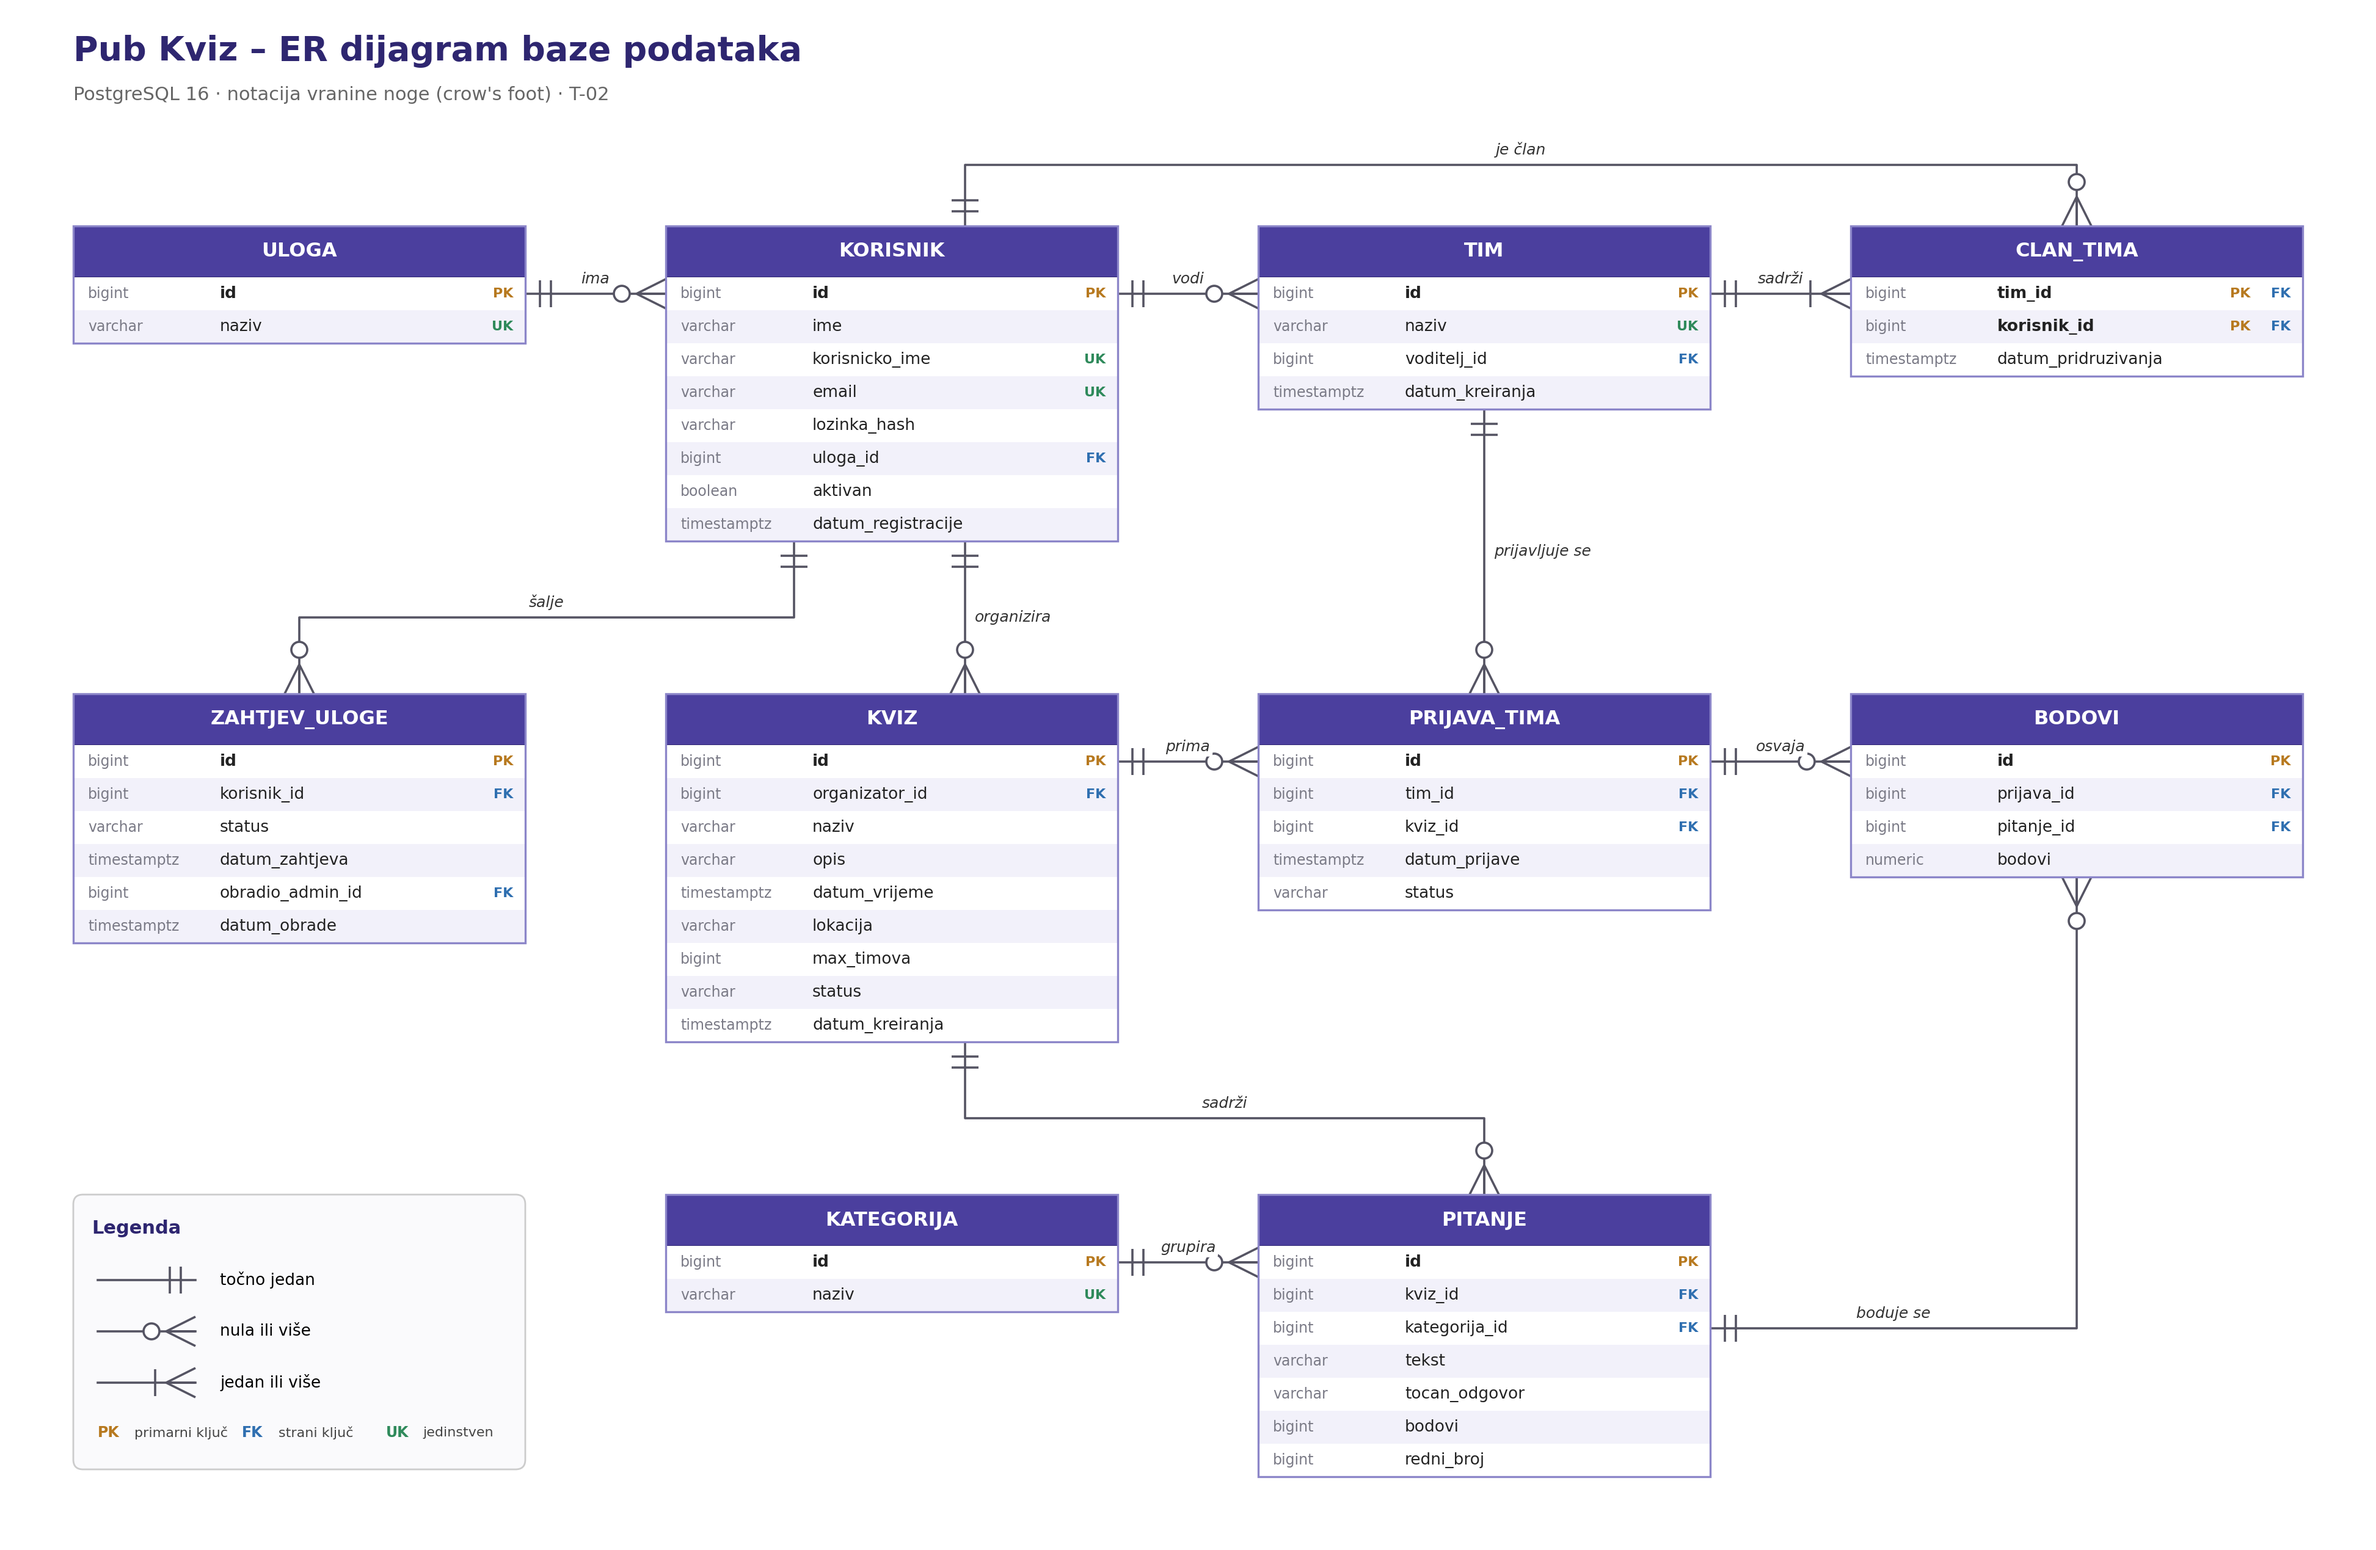
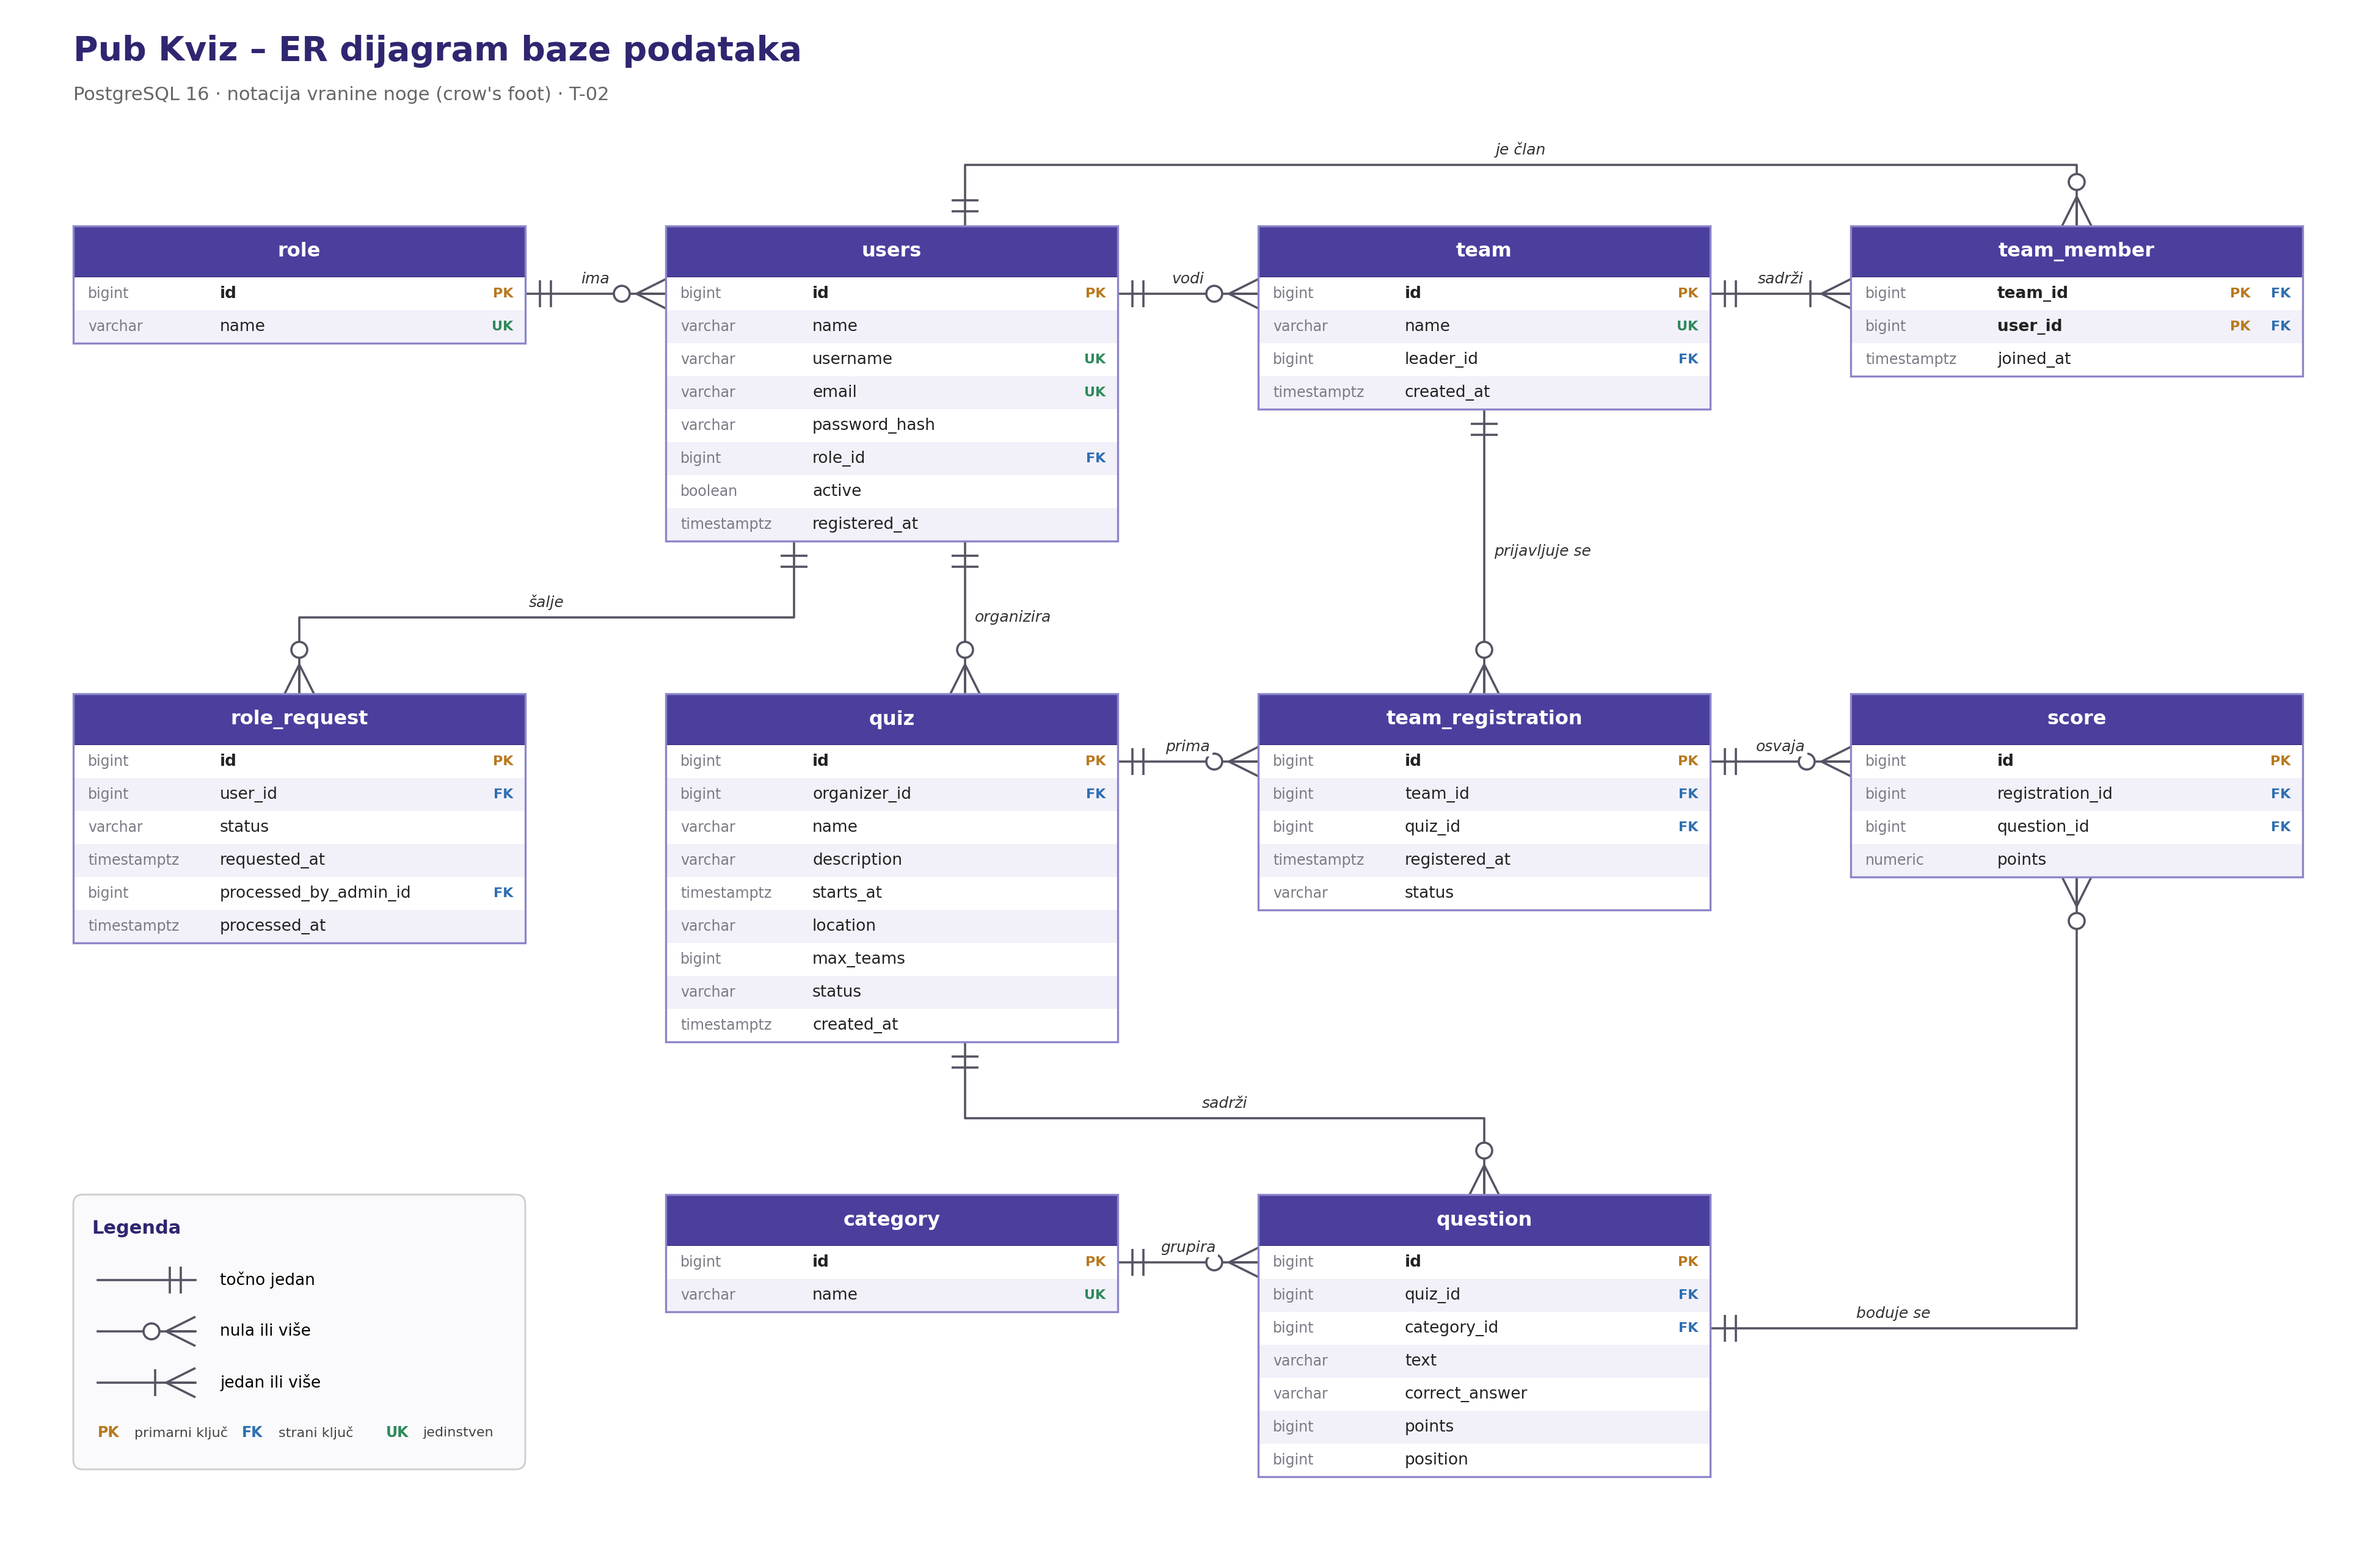
Promijenjen ER dijagram na engleski jezik da bude u skladu s bazom

diff --git a/docs/ER_dijagram.md b/docs/ER_dijagram.md
@@ -1,93 +1,93 @@
 # Pub Kviz – ER dijagram baze podataka (T-02)
 
-Dijagram je u Mermaid formatu – GitHub ga automatski iscrtava kad se ova datoteka otvori u repozitoriju. Tipovi stupaca odgovaraju PostgreSQL-u 16 (baza projekta); `bigint` ključevi se u Flyway migracijama pišu kao `BIGSERIAL`, kao u `V1__create_item.sql`.
+Dijagram je u Mermaid formatu – GitHub ga automatski iscrtava kad se ova datoteka otvori u repozitoriju. Nazivi tablica i stupaca jednaki su onima u migraciji `backend/src/main/resources/db/migration/V2__create_schema.sql`, a tipovi odgovaraju PostgreSQL-u 16 (`bigint` ključevi se u SQL-u pišu kao `BIGSERIAL`).
 
 ![ER dijagram](ER_dijagram.png)
 
 ```mermaid
 erDiagram
-    ULOGA ||--o{ KORISNIK : "ima"
-    KORISNIK ||--o{ ZAHTJEV_ULOGE : "šalje"
-    KORISNIK ||--o{ KVIZ : "organizira"
-    KORISNIK ||--o{ TIM : "vodi"
-    KORISNIK ||--o{ CLAN_TIMA : "je član"
-    TIM ||--|{ CLAN_TIMA : "sadrži"
-    TIM ||--o{ PRIJAVA_TIMA : "prijavljuje se"
-    KVIZ ||--o{ PRIJAVA_TIMA : "prima"
-    KVIZ ||--o{ PITANJE : "sadrži"
-    KATEGORIJA ||--o{ PITANJE : "grupira"
-    PRIJAVA_TIMA ||--o{ BODOVI : "osvaja"
-    PITANJE ||--o{ BODOVI : "boduje se"
+    role ||--o{ users : "ima"
+    users ||--o{ role_request : "šalje"
+    users ||--o{ quiz : "organizira"
+    users ||--o{ team : "vodi"
+    users ||--o{ team_member : "je član"
+    team ||--|{ team_member : "sadrži"
+    team ||--o{ team_registration : "prijavljuje se"
+    quiz ||--o{ team_registration : "prima"
+    quiz ||--o{ question : "sadrži"
+    category ||--o{ question : "grupira"
+    team_registration ||--o{ score : "osvaja"
+    question ||--o{ score : "boduje se"
 
-    ULOGA {
+    role {
         bigint id PK
-        varchar naziv UK "Administrator, Organizator, Sudionik"
+        varchar name UK "Administrator, Organizer, Participant"
     }
-    KORISNIK {
+    users {
         bigint id PK
-        varchar ime
-        varchar korisnicko_ime UK
+        varchar name
+        varchar username UK
         varchar email UK
-        varchar lozinka_hash
-        bigint uloga_id FK
-        boolean aktivan
-        timestamptz datum_registracije
+        varchar password_hash
+        bigint role_id FK
+        boolean active
+        timestamptz registered_at
     }
-    ZAHTJEV_ULOGE {
+    role_request {
         bigint id PK
-        bigint korisnik_id FK
-        varchar status "na_cekanju, odobren, odbijen"
-        timestamptz datum_zahtjeva
-        bigint obradio_admin_id FK "nullable"
-        timestamptz datum_obrade "nullable"
+        bigint user_id FK
+        varchar status "pending, approved, rejected"
+        timestamptz requested_at
+        bigint processed_by_admin_id FK "nullable"
+        timestamptz processed_at "nullable"
     }
-    KVIZ {
+    quiz {
         bigint id PK
-        bigint organizator_id FK
-        varchar naziv
-        varchar opis "nullable"
-        timestamptz datum_vrijeme
-        varchar lokacija
-        bigint max_timova
-        varchar status "otvoren, u_tijeku, zavrsen, otkazan"
-        timestamptz datum_kreiranja
+        bigint organizer_id FK
+        varchar name
+        varchar description "nullable"
+        timestamptz starts_at
+        varchar location
+        bigint max_teams "> 0"
+        varchar status "open, in_progress, finished, cancelled"
+        timestamptz created_at
     }
-    KATEGORIJA {
+    category {
         bigint id PK
-        varchar naziv UK
+        varchar name UK
     }
-    PITANJE {
+    question {
         bigint id PK
-        bigint kviz_id FK
-        bigint kategorija_id FK
-        varchar tekst
-        varchar tocan_odgovor
-        bigint bodovi "zadano 1"
-        bigint redni_broj
+        bigint quiz_id FK
+        bigint category_id FK
+        varchar text
+        varchar correct_answer
+        bigint points "zadano 1"
+        bigint position
     }
-    TIM {
+    team {
         bigint id PK
-        varchar naziv UK
-        bigint voditelj_id FK
-        timestamptz datum_kreiranja
+        varchar name UK
+        bigint leader_id FK
+        timestamptz created_at
     }
-    CLAN_TIMA {
-        bigint tim_id PK,FK
-        bigint korisnik_id PK,FK
-        timestamptz datum_pridruzivanja
+    team_member {
+        bigint team_id PK,FK
+        bigint user_id PK,FK
+        timestamptz joined_at
     }
-    PRIJAVA_TIMA {
+    team_registration {
         bigint id PK
-        bigint tim_id FK
-        bigint kviz_id FK
-        timestamptz datum_prijave
-        varchar status "aktivna, otkazana"
+        bigint team_id FK
+        bigint quiz_id FK
+        timestamptz registered_at
+        varchar status "active, cancelled"
     }
-    BODOVI {
+    score {
         bigint id PK
-        bigint prijava_id FK
-        bigint pitanje_id FK
-        numeric bodovi ">= 0"
+        bigint registration_id FK
+        bigint question_id FK
+        numeric points ">= 0"
     }
 ```
 
@@ -95,21 +95,21 @@ erDiagram
 
 | Tablica | PK | FK | Jedinstvenost / pravila |
 |---|---|---|---|
-| ULOGA | id | – | naziv jedinstven |
-| KORISNIK | id | uloga_id → ULOGA | email i korisnicko_ime jedinstveni; lozinka samo kao hash (T-06); `aktivan = false` blokira prijavu (T-33) |
-| ZAHTJEV_ULOGE | id | korisnik_id, obradio_admin_id → KORISNIK | US-27 / T-32 |
-| KVIZ | id | organizator_id → KORISNIK | max_timova > 0; novi kviz ima status `otvoren` (T-12) |
-| KATEGORIJA | id | – | naziv jedinstven |
-| PITANJE | id | kviz_id → KVIZ, kategorija_id → KATEGORIJA | redni_broj određuje redoslijed prikaza (T-25) |
-| TIM | id | voditelj_id → KORISNIK | naziv jedinstven (T-20); voditelj se upisuje i u CLAN_TIMA |
-| CLAN_TIMA | (tim_id, korisnik_id) | tim_id → TIM, korisnik_id → KORISNIK | spojna tablica M:N korisnik–tim |
-| PRIJAVA_TIMA | id | tim_id → TIM, kviz_id → KVIZ | UNIQUE (tim_id, kviz_id) – tim se ne prijavljuje dvaput (T-21) |
-| BODOVI | id | prijava_id → PRIJAVA_TIMA, pitanje_id → PITANJE | UNIQUE (prijava_id, pitanje_id); bodovi ≥ 0 (T-26) |
+| role | id | – | name jedinstven |
+| users | id | role_id → role | email i username jedinstveni; lozinka samo kao hash (T-06); `active = false` blokira prijavu (T-33) |
+| role_request | id | user_id, processed_by_admin_id → users | US-27 / T-32 |
+| quiz | id | organizer_id → users | max_teams > 0; novi kviz ima status `open` (T-12) |
+| category | id | – | name jedinstven |
+| question | id | quiz_id → quiz, category_id → category | position određuje redoslijed prikaza (T-25) |
+| team | id | leader_id → users | name jedinstven (T-20); voditelj se upisuje i u team_member |
+| team_member | (team_id, user_id) | team_id → team, user_id → users | spojna tablica M:N korisnik–tim |
+| team_registration | id | team_id → team, quiz_id → quiz | UNIQUE (team_id, quiz_id) – tim se ne prijavljuje dvaput (T-21) |
+| score | id | registration_id → team_registration, question_id → question | UNIQUE (registration_id, question_id); points ≥ 0 (T-26) |
 
 ## Odluke koje tim treba potvrditi
 
-1. **Bodovi po pitanju, ne po rundi.** BODOVI veže prijavu tima i pitanje, pa se ukupni zbroj tima dobije kao `SUM(bodovi)`. Ako želite bodovanje po rundama, dodajte tablicu RUNDA i zamijenite `pitanje_id` s `runda_id`.
-2. **Rang se ne sprema, nego se računa** iz zbroja bodova (T-28). Ako povijest kvizova (T-31) postane spora, može se dodati stupac `plasman` u PRIJAVA_TIMA koji se popuni pri završetku kviza.
-3. **Kategorije su zajedničke** svim organizatorima. Ako svaki organizator treba svoje, dodajte `organizator_id FK` u KATEGORIJA.
-4. **Ponovna prijava nakon otkazivanja**: zbog UNIQUE (tim_id, kviz_id) otkazana prijava se ponovno aktivira promjenom statusa, a ne novim retkom.
-5. **Broj slobodnih mjesta** = `max_timova − COUNT(aktivnih prijava)`; ne sprema se posebno.
+1. **Bodovi po pitanju, ne po rundi.** `score` veže prijavu tima i pitanje, pa se ukupni zbroj tima dobije kao `SUM(points)`. Ako želite bodovanje po rundama, dodajte tablicu `round` i zamijenite `question_id` s `round_id`.
+2. **Rang se ne sprema, nego se računa** iz zbroja bodova (T-28). Ako povijest kvizova (T-31) postane spora, može se dodati stupac `placement` u `team_registration` koji se popuni pri završetku kviza.
+3. **Kategorije su zajedničke** svim organizatorima. Ako svaki organizator treba svoje, dodajte `organizer_id FK` u `category`.
+4. **Ponovna prijava nakon otkazivanja**: zbog UNIQUE (team_id, quiz_id) otkazana prijava se ponovno aktivira promjenom statusa, a ne novim retkom.
+5. **Broj slobodnih mjesta** = `max_teams − COUNT(aktivnih prijava)`; ne sprema se posebno.
